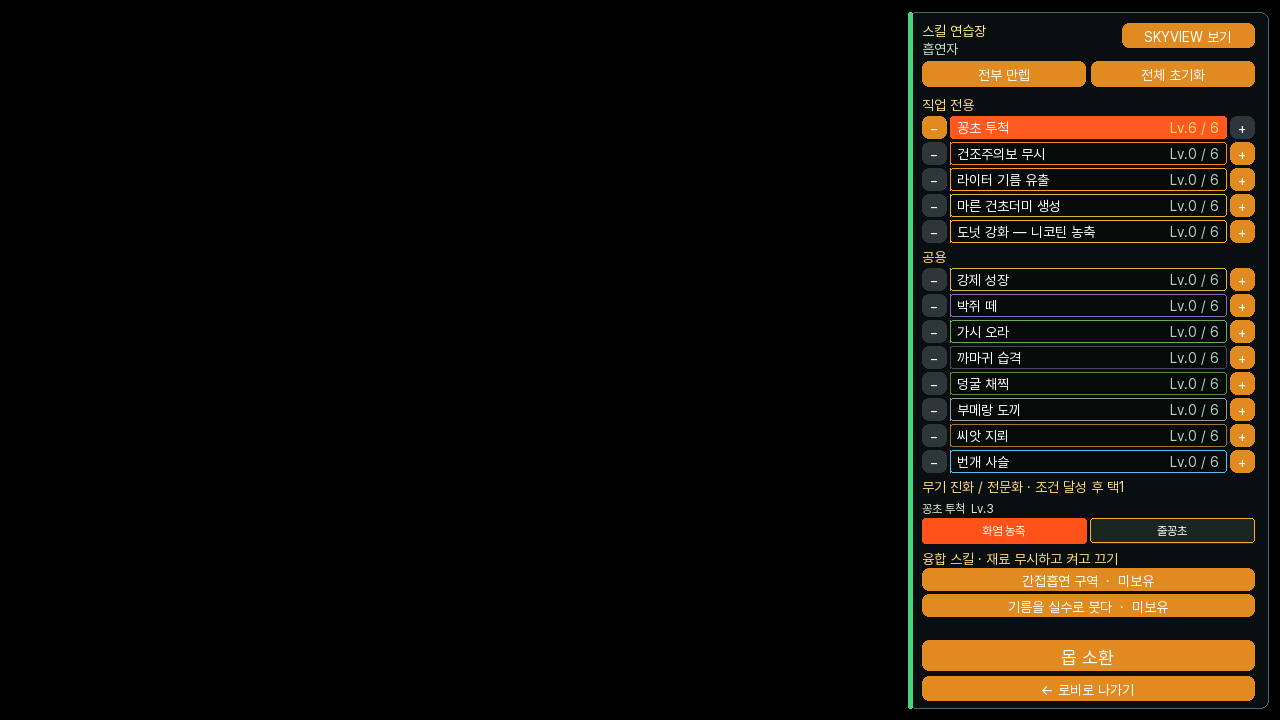
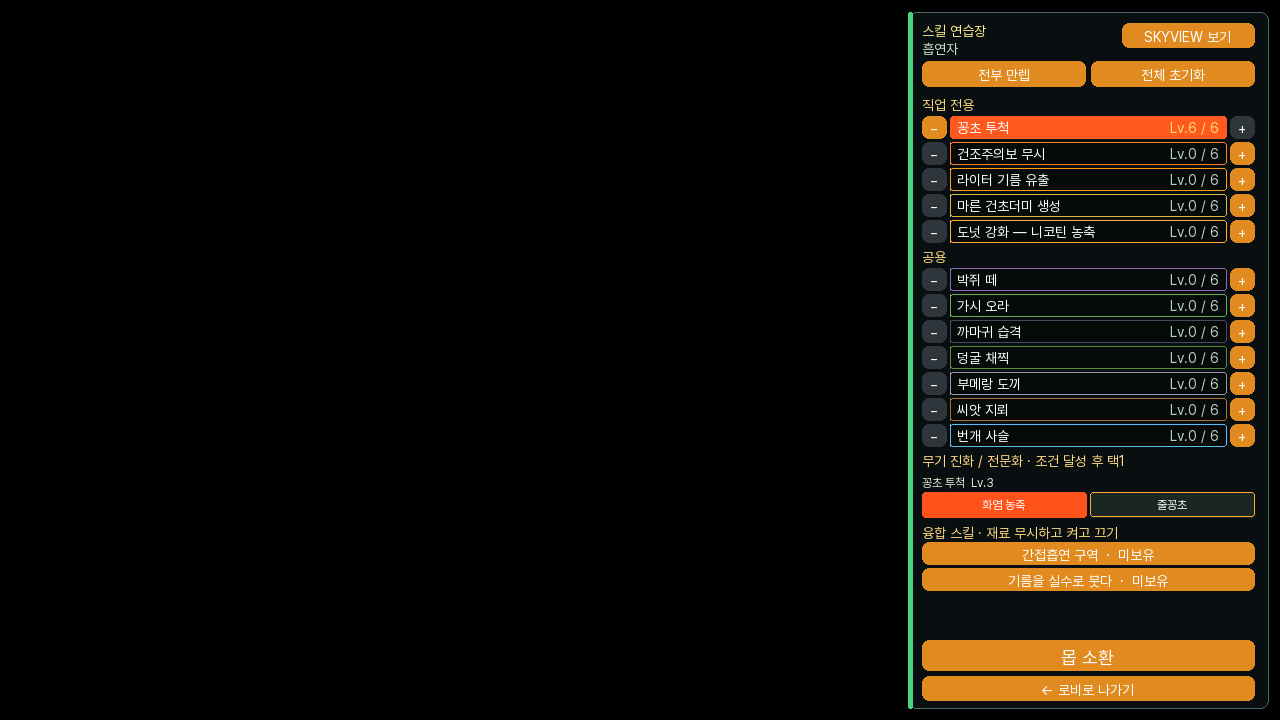
remove forced growth skill

Changed region(s): [[0.7188, 0.3667, 1.0, 0.8556]]

diff --git a/docs/character_dossier.html b/docs/character_dossier.html
@@ -712,9 +712,8 @@ const SKILLS = {
   },
   universal: { label: "공용 패시브", accent: "var(--c-universal)",
     tagline: "직업이 뭐든, 몸에서 알아서 나가는 것들이 있다.",
-    doctrine: "기본 공격과 무관하게 자동으로 발동하는 패시브 4종 + 전 직업에 열려 있는 파괴/억제 카드 4종.",
+    doctrine: "기본 공격과 무관하게 자동으로 발동하며 전 직업에 열려 있는 공용 패시브 7종.",
     nodes: [
-      {id:"forced_growth",track:"suppress",name:"강제 성장",desc:"숲의 재생 속도가 크게 빨라지지만, 목재 경험치 획득량도 크게 늘어납니다."},
       {id:"bat_swarm",track:"supplement",name:"박쥐 떼",desc:"주위를 맴도는 박쥐가 사거리 안의 생존 몬스터만 골라 주기적으로 급강하해 쪼아버립니다."},
       {id:"thorn_aura",track:"supplement",name:"가시 오라",desc:"몸 주위의 넓은 가시덩굴 지대가 주기적으로 주변 나무와 적에게 피해를 줍니다."},
       {id:"crow_strike",track:"supplement",name:"까마귀 습격",desc:"주기적으로 까마귀가 급강하해 사거리 내 가장 먼 생존 몬스터를 저격합니다."},
@@ -739,7 +738,7 @@ const SYNERGIES = {
 const SYNERGY_TAGS = {
   wide_blade:["impact","momentum"],berserker:["momentum","impact"],shockwave:["impact","field"],
   molotov:["ignition","momentum"],dry_forest:["ignition","field"],oil_drum:["ignition","impact"],straw_bale:["ignition","field"],smoke_ring:["field","momentum"],
-  fork_feast:["harvest","impact"],buffet_fork:["harvest","momentum"],clean_plate:["harvest","field"],seconds_please:["harvest","momentum"],forced_growth:["growth","harvest"],
+  fork_feast:["harvest","impact"],buffet_fork:["harvest","momentum"],clean_plate:["harvest","field"],seconds_please:["harvest","momentum"],
   pile_driving:["impact","momentum"],heavy_machinery:["impact","momentum"],demolition:["impact","ignition"],site_clearance:["field","impact"],
   detector:["impact","momentum"],burrow_uproot:["impact","field"],brute_force:["momentum","impact"],
   monologue:["field","momentum"],revival_meeting:["field","growth"],footnote:["momentum","field"],loud_voice:["field","impact"],saliva_gland:["growth","field"],

diff --git a/docs/CLEARCUT_SYNERGY_DESIGN.md b/docs/CLEARCUT_SYNERGY_DESIGN.md
@@ -46,7 +46,6 @@
 | 생계형 나무꾼 | 야근 수당 `강타/기동`, 이번 달 목표 초과 `기동/강타`, 산재 위험수당 `강타/장판` |
 | 흡연자 | 꽁초 투척 `점화/기동`, 건조주의보 무시 `점화/장판`, 라이터 기름 유출 `점화/강타`, 마른 건초더미 `점화/장판`, 도넛 강화 `장판/기동` |
 | 비건 단체 회장 | 대왕 포크 `수확/강타`, 뷔페용 포크 `수확/기동`, 접시 비우기 `수확/장판`, 한 그릇 더 `수확/기동` |
-| 공용 억제 | 강제 성장 `생장/수확` |
 | 부동산 개발업자 | 말뚝 박기 `강타/기동`, 중장비 투입 `강타/기동`, 철거 폭파 `강타/점화`, 부지 정지 `장판/강타` |
 | 코인 채굴꾼 | 복리 발톱 `강타/기동`, 지하 강제집행 `강타/장판`, 브루트포스 `기동/강타` |
 | 철학자 | 끝없는 설교 `장판/기동`, 부흥회 `장판/생장`, 각주 남발 `기동/장판`, 목청 키우기 `장판/강타`, 침샘 발달 `생장/장판` |
